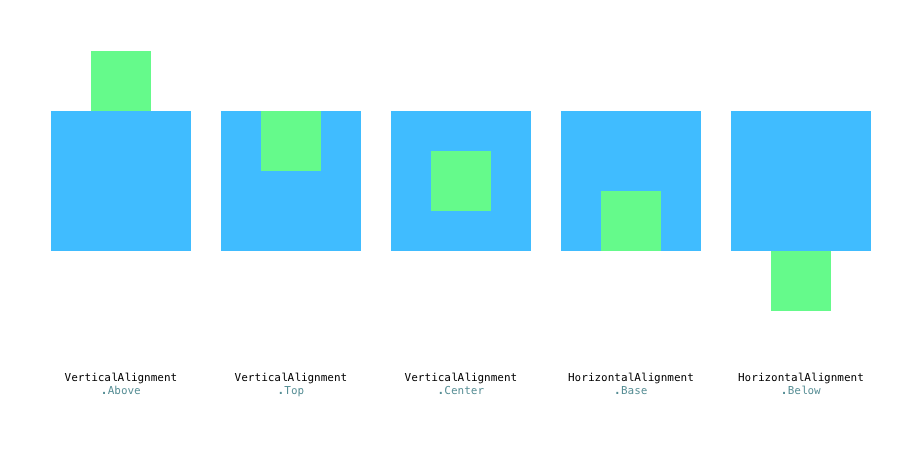
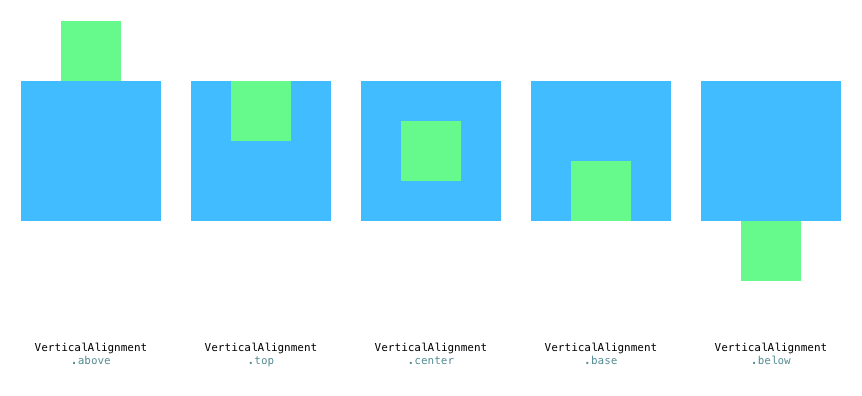
Updated Documentation

diff --git a/README.md b/README.md
@@ -94,7 +94,7 @@ public enum VerticalAlign {
 
 ##### Example 1
 
-In the following example, first we add the a new view named **bigView** as a subview, and say you want to align it dead center relative to the superview's bounds. It's as calling align against the view with the following method. This call with align the big **bigView** against the view's bounds that it was added to, with a horizontal, and vertical, alignment of ``.Center``.
+In the following example, first we add the a new view named **bigView** as a subview, and say you want to align it dead center relative to the superview's bounds. It's as calling align against the view with the following method. This call with align the big **bigView** against the view's bounds that it was added to, with a horizontal, and vertical, alignment of ``.center``.
 
 
 ```
